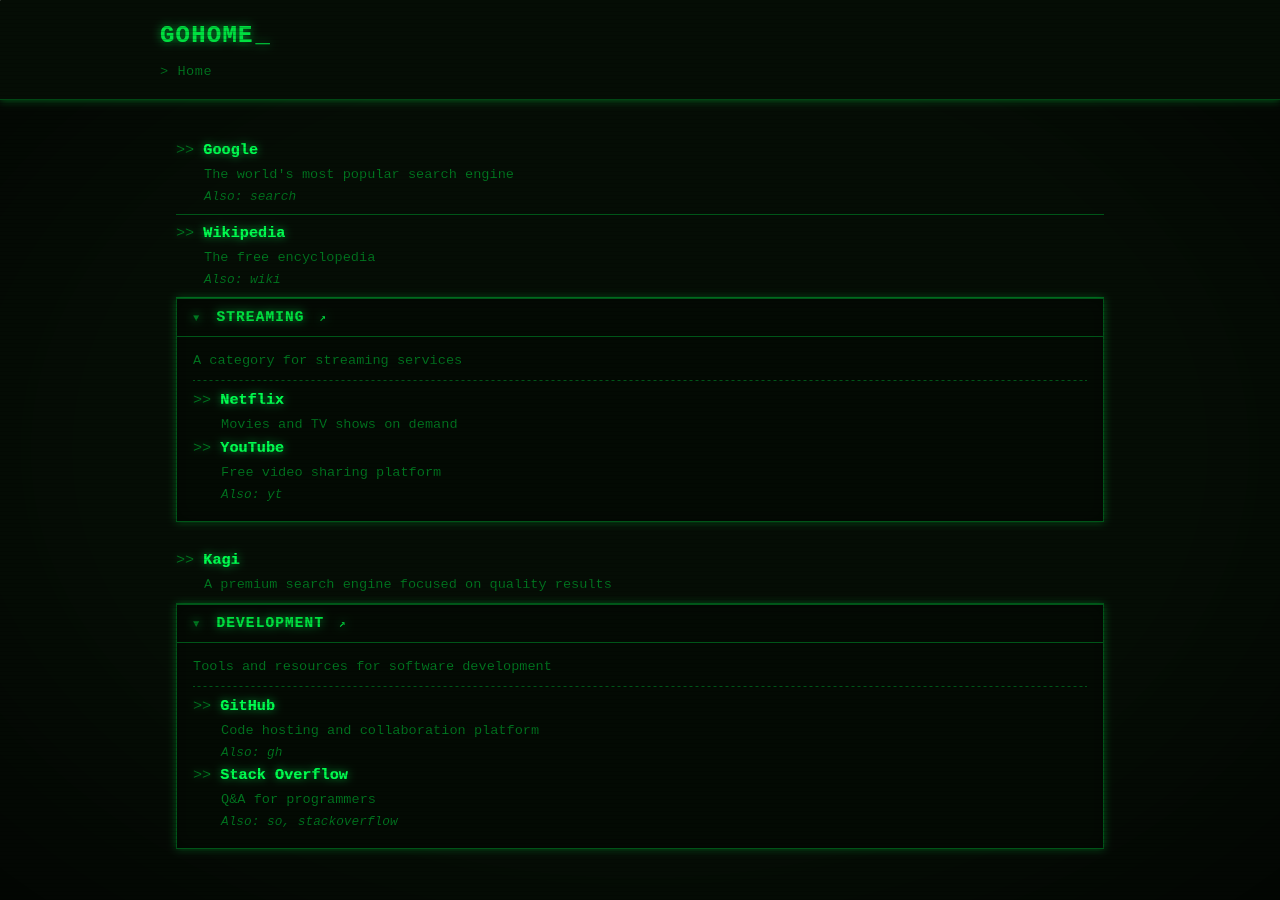
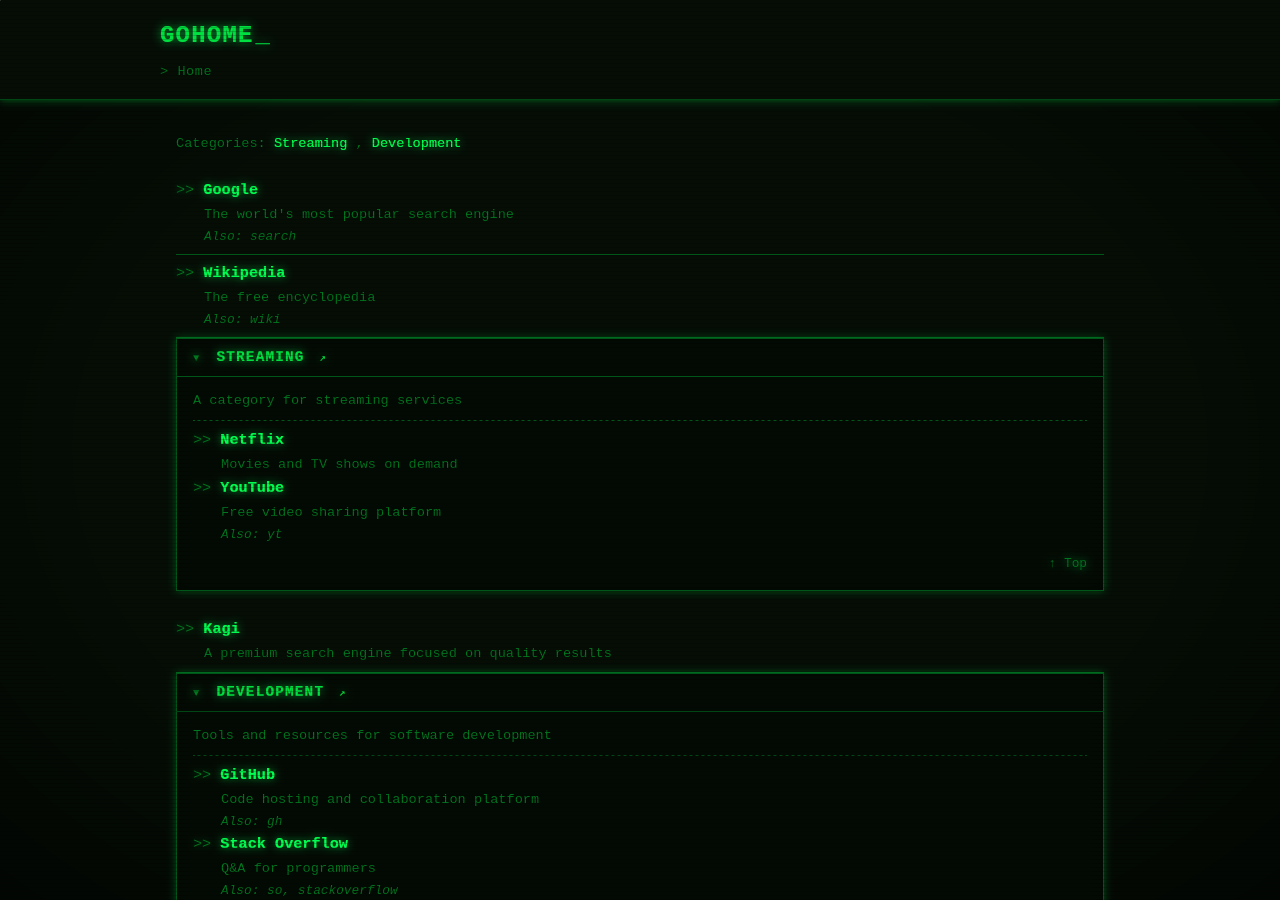
Add category navigation and back-to-top links on root page (#13)

diff --git a/src/gohome/templates/base.html b/src/gohome/templates/base.html
@@ -12,7 +12,7 @@
     <link rel="stylesheet" href="{{ url_for('serve_theme_css', theme_name=active_theme) }}">
     {% endif %}
 </head>
-<body class="{{ active_mode }}">
+<body class="{{ active_mode }}" id="top">
     <header>
         <h1>{{ site_title }}</h1>
         <nav class="breadcrumbs">
@@ -27,6 +27,15 @@
     </header>
 
     <main>
+        {% if not page_title %}
+        <nav class="category-nav" aria-label="Category navigation">
+            Categories:
+            {% for item in items if item is category %}
+                {% if not loop.first %}, {% endif %}<a href="#{{ item.slug }}">{{ item.name }}</a>
+            {% endfor %}
+        </nav>
+        {% endif %}
+
         {% if page_title %}
         <h2>{{ page_title }}</h2>
         {% if page_description %}
@@ -37,7 +46,7 @@
         <ul class="directory">
         {% for item in items %}
             {% if item is category %}
-            <li class="category">
+            <li class="category" id="{{ item.slug }}">
                 <details open>
                     <summary>
                         <h2>{{ item.name }} <a href="/{{ item.slug }}" class="category-link" title="Go to {{ item.name }}">&#x2197;</a></h2>
@@ -61,6 +70,9 @@
                         </li>
                     {% endfor %}
                     </ul>
+                    {% if not page_title %}
+                    <p class="back-to-top"><a href="#top">&uarr; Top</a></p>
+                    {% endif %}
                 </details>
             </li>
             {% else %}

diff --git a/src/gohome/static/retro-amber.css b/src/gohome/static/retro-amber.css
@@ -373,6 +373,49 @@ header h1::after {
     margin-top: 0.4rem;
 }
 
+/* ------------------------------------------------------------------ */
+/* Category navigation (anchor links at top of root page)             */
+/* ------------------------------------------------------------------ */
+.category-nav {
+    margin-bottom: var(--spacing);
+    font-size: 0.85rem;
+    color: var(--color-text-muted);
+    line-height: 1.8;
+    text-shadow: none;
+}
+
+.category-nav a {
+    color: var(--color-link);
+    text-decoration: none;
+    text-shadow: 0 0 8px var(--color-glow-strong);
+}
+
+.category-nav a:hover {
+    color: var(--color-link-hover);
+    text-decoration: underline;
+    text-shadow: 0 0 12px var(--color-glow-strong), 0 0 2px #fff;
+}
+
+/* ------------------------------------------------------------------ */
+/* Back to top                                                        */
+/* ------------------------------------------------------------------ */
+.back-to-top {
+    margin: 0.5rem 0 0;
+    font-size: 0.8rem;
+    text-align: right;
+    text-shadow: none;
+}
+
+.back-to-top a {
+    color: var(--color-text-muted);
+    text-decoration: none;
+}
+
+.back-to-top a:hover {
+    color: var(--color-link-hover);
+    text-decoration: underline;
+    text-shadow: 0 0 8px var(--color-glow);
+}
 
 /* ------------------------------------------------------------------ */
 /* Footer                                                             */

diff --git a/src/gohome/static/retro-ansi.css b/src/gohome/static/retro-ansi.css
@@ -390,6 +390,49 @@ header h1::after {
     margin-top: 0.4rem;
 }
 
+/* ------------------------------------------------------------------ */
+/* Category navigation (anchor links at top of root page)             */
+/* ------------------------------------------------------------------ */
+.category-nav {
+    margin-bottom: var(--spacing);
+    font-size: 0.85rem;
+    color: var(--color-text-muted);
+    line-height: 1.8;
+    text-shadow: none;
+}
+
+.category-nav a {
+    color: var(--color-link);
+    text-decoration: none;
+    text-shadow: 0 0 8px var(--color-glow-strong);
+}
+
+.category-nav a:hover {
+    color: var(--color-link-hover);
+    text-decoration: underline;
+    text-shadow: 0 0 12px var(--color-glow-strong), 0 0 2px #fff;
+}
+
+/* ------------------------------------------------------------------ */
+/* Back to top                                                        */
+/* ------------------------------------------------------------------ */
+.back-to-top {
+    margin: 0.5rem 0 0;
+    font-size: 0.8rem;
+    text-align: right;
+    text-shadow: none;
+}
+
+.back-to-top a {
+    color: var(--color-text-muted);
+    text-decoration: none;
+}
+
+.back-to-top a:hover {
+    color: var(--color-link-hover);
+    text-decoration: underline;
+    text-shadow: 0 0 8px var(--color-glow);
+}
 
 /* ------------------------------------------------------------------ */
 /* Footer                                                             */

diff --git a/src/gohome/static/retro-green.css b/src/gohome/static/retro-green.css
@@ -373,6 +373,49 @@ header h1::after {
     margin-top: 0.4rem;
 }
 
+/* ------------------------------------------------------------------ */
+/* Category navigation (anchor links at top of root page)             */
+/* ------------------------------------------------------------------ */
+.category-nav {
+    margin-bottom: var(--spacing);
+    font-size: 0.85rem;
+    color: var(--color-text-muted);
+    line-height: 1.8;
+    text-shadow: none;
+}
+
+.category-nav a {
+    color: var(--color-link);
+    text-decoration: none;
+    text-shadow: 0 0 8px var(--color-glow-strong);
+}
+
+.category-nav a:hover {
+    color: var(--color-link-hover);
+    text-decoration: underline;
+    text-shadow: 0 0 12px var(--color-glow-strong), 0 0 2px #fff;
+}
+
+/* ------------------------------------------------------------------ */
+/* Back to top                                                        */
+/* ------------------------------------------------------------------ */
+.back-to-top {
+    margin: 0.5rem 0 0;
+    font-size: 0.8rem;
+    text-align: right;
+    text-shadow: none;
+}
+
+.back-to-top a {
+    color: var(--color-text-muted);
+    text-decoration: none;
+}
+
+.back-to-top a:hover {
+    color: var(--color-link-hover);
+    text-decoration: underline;
+    text-shadow: 0 0 8px var(--color-glow);
+}
 
 /* ------------------------------------------------------------------ */
 /* Footer                                                             */

diff --git a/src/gohome/static/default.css b/src/gohome/static/default.css
@@ -262,6 +262,45 @@ header h1 {
 }
 
 /* ------------------------------------------------------------------ */
+/* Category navigation (anchor links at top of root page)             */
+/* ------------------------------------------------------------------ */
+.category-nav {
+    margin-bottom: var(--spacing);
+    font-size: 0.9rem;
+    color: var(--color-text-muted);
+    line-height: 1.8;
+}
+
+.category-nav a {
+    color: var(--color-link);
+    text-decoration: none;
+}
+
+.category-nav a:hover {
+    color: var(--color-link-hover);
+    text-decoration: underline;
+}
+
+/* ------------------------------------------------------------------ */
+/* Back to top                                                        */
+/* ------------------------------------------------------------------ */
+.back-to-top {
+    margin: 0.5rem 0 0;
+    font-size: 0.8rem;
+    text-align: right;
+}
+
+.back-to-top a {
+    color: var(--color-text-muted);
+    text-decoration: none;
+}
+
+.back-to-top a:hover {
+    color: var(--color-link-hover);
+    text-decoration: underline;
+}
+
+/* ------------------------------------------------------------------ */
 /* Footer                                                             */
 /* ------------------------------------------------------------------ */
 footer {

diff --git a/tests/test_integration.py b/tests/test_integration.py
@@ -159,6 +159,51 @@ class TestUnknownPaths:
         assert response.headers["Location"] == "/"
 
 
+class TestCategoryNav:
+    """Verify category navigation appears on root page only."""
+
+    def test_root_has_category_nav(self, integration_client: FlaskClient) -> None:
+        """The root page contains a category navigation section."""
+        html = integration_client.get("/").get_data(as_text=True)
+        assert 'class="category-nav"' in html
+
+    def test_root_nav_contains_category_anchors(
+        self, integration_client: FlaskClient
+    ) -> None:
+        """The root page nav contains anchor links to each category."""
+        html = integration_client.get("/").get_data(as_text=True)
+        assert "#streaming" in html
+        assert "#development" in html
+
+    def test_root_categories_have_id_anchors(
+        self, integration_client: FlaskClient
+    ) -> None:
+        """Category sections on root page have id attributes matching slugs."""
+        html = integration_client.get("/").get_data(as_text=True)
+        assert 'id="streaming"' in html
+        assert 'id="development"' in html
+
+    def test_root_has_back_to_top(self, integration_client: FlaskClient) -> None:
+        """The root page contains back-to-top links."""
+        html = integration_client.get("/").get_data(as_text=True)
+        assert 'class="back-to-top"' in html
+        assert "#top" in html
+
+    def test_category_page_no_category_nav(
+        self, integration_client: FlaskClient
+    ) -> None:
+        """Category pages do not contain the category navigation."""
+        html = integration_client.get("/streaming").get_data(as_text=True)
+        assert 'class="category-nav"' not in html
+
+    def test_category_page_no_back_to_top(
+        self, integration_client: FlaskClient
+    ) -> None:
+        """Category pages do not contain back-to-top links."""
+        html = integration_client.get("/streaming").get_data(as_text=True)
+        assert 'class="back-to-top"' not in html
+
+
 class TestThemeCSS:
     """Verify the default theme CSS endpoint."""
 

diff --git a/tests/e2e/test_browser.py b/tests/e2e/test_browser.py
@@ -315,3 +315,35 @@ class TestCategoryCollapse:
 
         # Navigated to a category page
         expect(page.locator(".breadcrumbs")).to_contain_text("Home")
+
+
+# ---------------------------------------------------------------------------
+# Category anchor navigation (root page only)
+# ---------------------------------------------------------------------------
+
+
+class TestCategoryAnchorNav:
+    """Verify the category anchor navigation bar on the root page."""
+
+    def test_category_nav_visible_on_root(self, page: Page) -> None:
+        """The category nav bar is visible on the root page."""
+        page.goto("/")
+        nav = page.locator(".category-nav")
+        expect(nav).to_be_visible()
+        expect(nav.locator("a", has_text="Streaming")).to_be_visible()
+        expect(nav.locator("a", has_text="Development")).to_be_visible()
+
+    def test_category_nav_absent_on_category_page(self, page: Page) -> None:
+        """The category nav bar does not appear on category pages."""
+        page.goto("/streaming")
+        assert page.locator(".category-nav").count() == 0
+
+    def test_back_to_top_visible_on_root(self, page: Page) -> None:
+        """Back-to-top links are visible inside categories on the root page."""
+        page.goto("/")
+        expect(page.locator(".back-to-top").first).to_be_visible()
+
+    def test_back_to_top_absent_on_category_page(self, page: Page) -> None:
+        """Back-to-top links do not appear on category pages."""
+        page.goto("/streaming")
+        assert page.locator(".back-to-top").count() == 0

diff --git a/tests/test_cookies.py b/tests/test_cookies.py
@@ -18,7 +18,7 @@ class TestNoCookies:
     def test_no_body_class(self, client: FlaskClient) -> None:
         """Without cookies, the body has no mode class (empty string)."""
         html = client.get("/").get_data(as_text=True)
-        assert '<body class="">' in html
+        assert '<body class="" id="top">' in html
 
     def test_default_theme_used(self, client: FlaskClient) -> None:
         """Without cookies, the admin's default theme is active."""
@@ -38,19 +38,19 @@ class TestModeCookie:
         """The dark mode cookie sets body class to 'dark'."""
         client.set_cookie("gohome_mode", "dark")
         html = client.get("/").get_data(as_text=True)
-        assert '<body class="dark">' in html
+        assert '<body class="dark" id="top">' in html
 
     def test_light_mode_cookie(self, client: FlaskClient) -> None:
         """The light mode cookie sets body class to 'light'."""
         client.set_cookie("gohome_mode", "light")
         html = client.get("/").get_data(as_text=True)
-        assert '<body class="light">' in html
+        assert '<body class="light" id="top">' in html
 
     def test_invalid_mode_cookie_ignored(self, client: FlaskClient) -> None:
         """An invalid mode cookie value results in no body class."""
         client.set_cookie("gohome_mode", "invalid")
         html = client.get("/").get_data(as_text=True)
-        assert '<body class="">' in html
+        assert '<body class="" id="top">' in html
 
 
 class TestThemeCookie:
